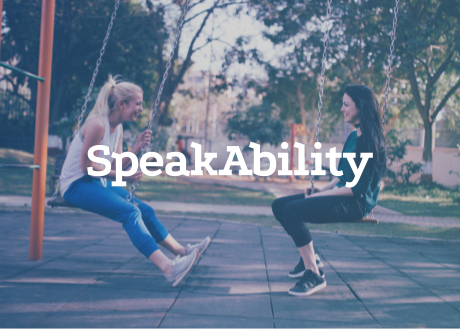
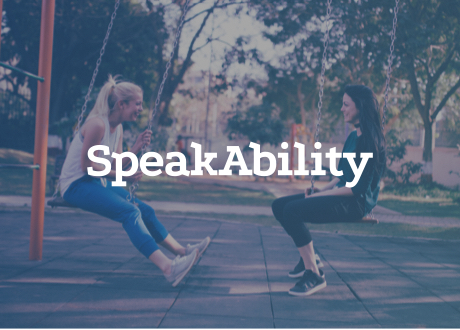
updates

diff --git a/assets/css/style.css b/assets/css/style.css
@@ -1,1 +1,1 @@
-@font-face{font-family:'LatoWeb';src:url("../fonts/Lato-Regular.eot");src:url("../fonts/Lato-Regular.eot?#iefix") format("embedded-opentype"), url("../fonts/Lato-Regular.woff2") format("woff2"), url("../fonts/Lato-Regular.woff") format("woff"), url("../fonts/Lato-Regular.ttf") format("truetype");font-style:normal;font-weight:normal;text-rendering:optimizeLegibility}@font-face{font-family:'LatoWebHeavy';src:url("../fonts/Lato-Heavy.eot");src:url("../fonts/Lato-Heavy.eot?#iefix") format("embedded-opentype"), url("../fonts/Lato-Heavy.woff2") format("woff2"), url("../fonts/Lato-Heavy.woff") format("woff"), url("../fonts/Lato-Heavy.ttf") format("truetype");font-style:normal;font-weight:normal;text-rendering:optimizeLegibility}@font-face{font-family:'LatoWebLight';src:url("fonts/Lato-Light.eot");src:url("fonts/Lato-Light.eot?#iefix") format("embedded-opentype"), url("fonts/Lato-Light.woff2") format("woff2"), url("fonts/Lato-Light.woff") format("woff"), url("fonts/Lato-Light.ttf") format("truetype");font-style:normal;font-weight:normal;text-rendering:optimizeLegibility}.clearfix:after{content:"";display:table;clear:both}.container{max-width:1170px;margin:0 auto}body{font-family:"LatoWeb", Arial, sans-serif;font-size:16px}a{text-decoration:none;color:#191919}ul{padding:0;margin:0}li{list-style:none;display:inline-block}.comment{color:#9B9B9B;font-family:"LatoWeb";display:block;font-size:12px}.link{color:#000;-webkit-transition:color .3s ease-out 0s;-moz-transition:color .3s ease-out 0s;-o-transition:color .3s ease-out 0s;transition:color .3s ease-out 0s}.link:hover{color:#0084b1}.link--block{display:block}.link--disabled{color:#9B9B9B}.link--disabled:hover{color:#9B9B9B}.link--color{color:#0084b1}.link--icon{font-size:0;display:block;width:20px;height:20px;background-size:16px;background-position:center;background-repeat:no-repeat;-webkit-transition:background-image .8s ease-out 0s;-moz-transition:background-image .8s ease-out 0s;-o-transition:background-image .8s ease-out 0s;transition:background-image .8s ease-out 0s}.link--mail{background-image:url("../img/icon-mail.svg")}.link--mail:hover{background-image:url("../img/icon-mail-hover.svg")}.link--tl{background-image:url("../img/icon-tl.svg")}.link--tl:hover{background-image:url("../img/icon-tl-hover.svg")}.link--vk{background-image:url("../img/icon-vk.svg");background-size:20px}.link--vk:hover{background-image:url("../img/icon-vk-hover.svg")}@media (max-width:768px){.container{margin:0 20px}}@media (min-width:768px){.container{max-width:750px}}@media (min-width:992px){.container{max-width:960px}}.alert{position:relative;background:#0084b1;padding:10px 0;position:fixed;width:100%;bottom:0}.alert p{margin:0 auto;color:#fff;width:615px;text-align:center;font-size:14px}.alert .close{position:absolute;display:block;top:50%;right:20px;width:15px;height:15px;-webkit-transform:translateY(-50%);-ms-transform:translateY(-50%);transform:translateY(-50%);background-image:url("../img/icon-close.svg");background-position:center;background-size:15px}@media (max-width:768px){.alert{display:none}}.header{position:relative;padding:60px 0;display:-webkit-box;display:-webkit-flex;display:-ms-flexbox;display:flex;-webkit-box-align:center;-webkit-align-items:center;-ms-flex-align:center;align-items:center;-webkit-justify-content:space-around;-ms-flex-pack:distribute;justify-content:space-around}.header a{display:block;float:left;padding:10px 20px}.header__logo{-webkit-box-flex:1;-webkit-flex-grow:1;-ms-flex-positive:1;flex-grow:1}.header__title{position:relative;margin-left:-20px}.header__title--name{font-family:"LatoWebHeavy"}.header__title .icon-back{position:absolute;display:block;top:50%;left:5px;width:7px;height:10px;margin-top:-3px;background-image:url("../img/icon-back.svg");background-position:center;background-size:auto 10px;-webkit-transition:background-image .3s ease-out 0s;-moz-transition:background-image .3s ease-out 0s;-o-transition:background-image .3s ease-out 0s;transition:background-image .3s ease-out 0s}.header__title:hover .icon-back{background-image:url("../img/icon-back-hover.svg")}.header__nav ul>li{display:block;float:left}.header__nav .link--icon{padding:10px}.header__burger{display:none}@media (max-width:768px){.header{padding:15px 0;-webkit-box-orient:vertical;-webkit-box-direction:normal;-webkit-flex-direction:column;-ms-flex-direction:column;flex-direction:column;-webkit-box-align:start;-webkit-align-items:flex-start;-ms-flex-align:start;align-items:flex-start}.header__title{margin-left:-20px}.header__nav{display:none}.header__nav ul>li:first-child a{margin-left:-20px}.header__burger{display:block;position:absolute;top:15px;right:-10px;width:14px;height:20px;padding:10px 15px;background-image:url("../img/icon-burger.svg");background-position:center;background-repeat:no-repeat;background-size:14px 20px}}.content{padding-bottom:80px}.content__title{font-family:"LatoWebHeavy";font-size:28px;margin:0;padding:0;margin-bottom:20px}.content__title .comment{font-size:16px}.content__text{max-width:640px}.content__text p{line-height:1.4;margin:0;margin:20px 0}.content__text img{display:block;margin:20px 0 30px}.content__h2{font-family:"LatoWebHeavy";font-size:21px;margin:0;padding:0;margin:40px 0 20px}@media (max-width:768px){.content{padding-bottom:20px}.content__text img{max-width:100%}}.project{display:block;float:left;text-align:center;text-transform:lowercase;margin-bottom:50px}.project img{width:100%;height:auto}.project__title{margin:0;padding:0;padding-top:10px;font-size:14px;font-weight:normal}.project__descr{font-size:12px;color:#9B9B9B}.project--active:hover img{-webkit-box-shadow:0 10px 25px -10px rgba(0, 132, 177, 0.25);box-shadow:0 10px 25px -10px rgba(0, 132, 177, 0.25);-webkit-transition:box-shadow .3s ease-out 0s;-moz-transition:box-shadow .3s ease-out 0s;-o-transition:box-shadow .3s ease-out 0s;-webkit-transition:-webkit-box-shadow .3s ease-out 0s;transition:-webkit-box-shadow .3s ease-out 0s;transition:box-shadow .3s ease-out 0s;transition:box-shadow .3s ease-out 0s, -webkit-box-shadow .3s ease-out 0s}.project--active:hover .project__title{color:#0084b1;-webkit-transition:color .3s ease-out 0s;-moz-transition:color .3s ease-out 0s;-o-transition:color .3s ease-out 0s;transition:color .3s ease-out 0s}.project--disabled .project__title{color:#9B9B9B}@media (min-width:768px){.project{width:230px;margin-right:10px}}@media (min-width:992px){.project{width:230px;margin-right:10px}.project:nth-child(4){margin-right:0}}.resume__block{padding-bottom:10px}.resume__item{margin-bottom:20px}.resume__item:last-child{margin-bottom:0}.resume__item .period{display:block;float:left;width:75px;margin-right:30px;font-size:12px;color:#9B9B9B}.resume__item .descr{float:left;width:420px}.resume__item .descr h3{margin:0;margin-bottom:5px;font-size:16px}.resume__item .descr p{margin:0;font-size:14px;color:#9B9B9B}
+@font-face{font-family:'LatoWeb';src:url("../fonts/Lato-Regular.eot");src:url("../fonts/Lato-Regular.eot?#iefix") format("embedded-opentype"), url("../fonts/Lato-Regular.woff2") format("woff2"), url("../fonts/Lato-Regular.woff") format("woff"), url("../fonts/Lato-Regular.ttf") format("truetype");font-style:normal;font-weight:normal;text-rendering:optimizeLegibility}@font-face{font-family:'LatoWebHeavy';src:url("../fonts/Lato-Heavy.eot");src:url("../fonts/Lato-Heavy.eot?#iefix") format("embedded-opentype"), url("../fonts/Lato-Heavy.woff2") format("woff2"), url("../fonts/Lato-Heavy.woff") format("woff"), url("../fonts/Lato-Heavy.ttf") format("truetype");font-style:normal;font-weight:normal;text-rendering:optimizeLegibility}@font-face{font-family:'LatoWebLight';src:url("fonts/Lato-Light.eot");src:url("fonts/Lato-Light.eot?#iefix") format("embedded-opentype"), url("fonts/Lato-Light.woff2") format("woff2"), url("fonts/Lato-Light.woff") format("woff"), url("fonts/Lato-Light.ttf") format("truetype");font-style:normal;font-weight:normal;text-rendering:optimizeLegibility}.clearfix:after{content:"";display:table;clear:both}.container{max-width:1170px;margin:0 auto}body{font-family:"LatoWeb", Arial, sans-serif;font-size:16px}a{text-decoration:none;color:#191919}ul{padding:0;margin:0}li{list-style:none;display:inline-block}.comment{color:#c3c3c3;font-family:"LatoWeb";display:block;font-size:12px}.link{color:#000;-webkit-transition:color .3s ease-out 0s;-moz-transition:color .3s ease-out 0s;-o-transition:color .3s ease-out 0s;transition:color .3s ease-out 0s}.link:hover{color:#0084b1}.link--block{display:block}.link--disabled{color:#c3c3c3}.link--disabled:hover{color:#c3c3c3}.link--color{color:#0084b1}.link--icon{font-size:0;display:block;width:20px;height:20px;background-size:16px;background-position:center;background-repeat:no-repeat;-webkit-transition:background-image .8s ease-out 0s;-moz-transition:background-image .8s ease-out 0s;-o-transition:background-image .8s ease-out 0s;transition:background-image .8s ease-out 0s}.link--mail{background-image:url("../img/icon-mail.svg")}.link--mail:hover{background-image:url("../img/icon-mail-hover.svg")}.link--tl{background-image:url("../img/icon-tl.svg")}.link--tl:hover{background-image:url("../img/icon-tl-hover.svg")}.link--vk{background-image:url("../img/icon-vk.svg");background-size:20px}.link--vk:hover{background-image:url("../img/icon-vk-hover.svg")}@media (max-width:768px){.container{margin:0 20px}}@media (min-width:768px){.container{max-width:750px}}@media (min-width:992px){.container{max-width:960px}}.alert{position:relative;background:#0084b1;padding:10px 0;position:fixed;width:100%;bottom:0}.alert p{margin:0 auto;color:#fff;width:615px;text-align:center;font-size:14px}.alert .close{position:absolute;display:block;top:50%;right:20px;width:15px;height:15px;-webkit-transform:translateY(-50%);-ms-transform:translateY(-50%);transform:translateY(-50%);background-image:url("../img/icon-close.svg");background-position:center;background-size:15px}@media (max-width:768px){.alert{display:none}}.header{position:relative;padding:60px 0;display:-webkit-box;display:-webkit-flex;display:-ms-flexbox;display:flex;-webkit-box-align:center;-webkit-align-items:center;-ms-flex-align:center;align-items:center;-webkit-justify-content:space-around;-ms-flex-pack:distribute;justify-content:space-around}.header a{display:block;float:left;padding:10px 20px}.header__logo{-webkit-box-flex:1;-webkit-flex-grow:1;-ms-flex-positive:1;flex-grow:1}.header__title{position:relative;margin-left:-20px}.header__title .icon-back{position:absolute;display:block;top:50%;left:5px;width:7px;height:10px;margin-top:-3px;background-image:url("../img/icon-back.svg");background-position:center;background-size:auto 10px;-webkit-transition:background-image .3s ease-out 0s;-moz-transition:background-image .3s ease-out 0s;-o-transition:background-image .3s ease-out 0s;transition:background-image .3s ease-out 0s}.header__title:hover .icon-back{background-image:url("../img/icon-back-hover.svg")}.header__nav ul>li{display:block;float:left}.header__nav .link--icon{padding:10px}.header__burger{display:none}@media (max-width:768px){.header{padding:15px 0;-webkit-box-orient:vertical;-webkit-box-direction:normal;-webkit-flex-direction:column;-ms-flex-direction:column;flex-direction:column;-webkit-box-align:start;-webkit-align-items:flex-start;-ms-flex-align:start;align-items:flex-start}.header__title{margin-left:-20px}.header__nav{display:none}.header__nav ul>li:first-child a{margin-left:-20px}.header__burger{display:block;position:absolute;top:15px;right:-10px;width:14px;height:20px;padding:10px 15px;background-image:url("../img/icon-burger.svg");background-position:center;background-repeat:no-repeat;background-size:14px 20px}}.content{padding-bottom:80px}.content__title{font-family:"LatoWebHeavy";font-size:28px;margin:0;padding:0;margin-bottom:20px}.content__title .comment{font-size:16px}.content__text{max-width:640px}.content__text p{line-height:1.4;margin:0;margin:20px 0}.content__text img{display:block;margin:20px 0 30px}.content__h2{font-family:"LatoWebHeavy";font-size:21px;margin:0;padding:0;margin:40px 0 20px}@media (max-width:768px){.content{padding-bottom:20px}.content__text img{max-width:100%}}.project{display:block;float:left;text-align:center;text-transform:lowercase;margin-bottom:50px}.project img{width:100%;height:auto}.project__title{margin:0;padding:0;padding-top:10px;font-size:14px;font-weight:normal}.project__descr{font-size:12px;color:#c3c3c3}.project--active:hover img{-webkit-box-shadow:0 10px 25px -10px rgba(74, 85, 88, 0.25);box-shadow:0 10px 25px -10px rgba(74, 85, 88, 0.25);-webkit-transition:box-shadow .3s ease-out 0s;-moz-transition:box-shadow .3s ease-out 0s;-o-transition:box-shadow .3s ease-out 0s;-webkit-transition:-webkit-box-shadow .3s ease-out 0s;transition:-webkit-box-shadow .3s ease-out 0s;transition:box-shadow .3s ease-out 0s;transition:box-shadow .3s ease-out 0s, -webkit-box-shadow .3s ease-out 0s}.project--active:hover .project__title{color:#0084b1;-webkit-transition:color .3s ease-out 0s;-moz-transition:color .3s ease-out 0s;-o-transition:color .3s ease-out 0s;transition:color .3s ease-out 0s}.project--disabled .project__title{color:#c3c3c3;font-family:"LatoWeb"}@media (min-width:768px){.project{width:230px;margin-right:10px}}@media (min-width:992px){.project{width:230px;margin-right:10px}.project:nth-child(4){margin-right:0}}.resume__block{padding-bottom:10px}.resume__item{margin-bottom:20px}.resume__item:last-child{margin-bottom:0}.resume__item .period{display:block;float:left;width:75px;margin-right:30px;font-size:12px;color:#c3c3c3}.resume__item .descr{float:left;width:420px}.resume__item .descr h3{margin:0;margin-bottom:5px;font-size:16px}.resume__item .descr p{margin:0;font-size:14px;color:#c3c3c3}

diff --git a/trifit.html b/trifit.html
@@ -30,15 +30,12 @@
       <div class="content__text">
 
         <p>
-          <a href="http://trifit.ru/">Трифит</a> — это онлайн платформа, позволяющая профессиональным тренерам работать с клиентами удаленно.
+          <a href="http://trifit.ru/" target="_blank" class="link link--color">Трифит</a> — это онлайн платформа, позволяющая профессиональным тренерам работать с клиентами удаленно.
         </p>
 
         <p>
 
 
-          <!-- <img width="640px" alt="Архитектура пользовательской части учебника"
-            src="assets/img/pic/case-rtk-architecture.jpg"
-            srcset="assets/img/pic/case-rtk-architecture@2x.jpg 2x"> -->
         </p>
 
         <p>

diff --git a/assets/sass/blocks/project.scss b/assets/sass/blocks/project.scss
@@ -28,7 +28,7 @@
 
     &:hover {
       img {
-        box-shadow: 0 10px 25px -10px rgba($primary, .25);
+        box-shadow: 0 10px 25px -10px rgba(#4a5558, .25);
         -webkit-transition: box-shadow .3s ease-out 0s;
         -moz-transition: box-shadow .3s ease-out 0s;
         -o-transition: box-shadow .3s ease-out 0s;
@@ -47,6 +47,7 @@
   &--disabled {
     .project__title {
       color: $grey;
+      font-family: $regular;
     }
   }
 

diff --git a/assets/sass/blocks/header.scss b/assets/sass/blocks/header.scss
@@ -21,7 +21,7 @@
     margin-left: -20px;
 
     &--name {
-      font-family: $bold;
+      // font-family: $bold;
       // font-size: 21px;
     }
 

diff --git a/assets/sass/variables.scss b/assets/sass/variables.scss
@@ -1,3 +1,3 @@
 $primary: #0084b1;
 $black: #191919;
-$grey: #9B9B9B;
+$grey: #c3c3c3;
